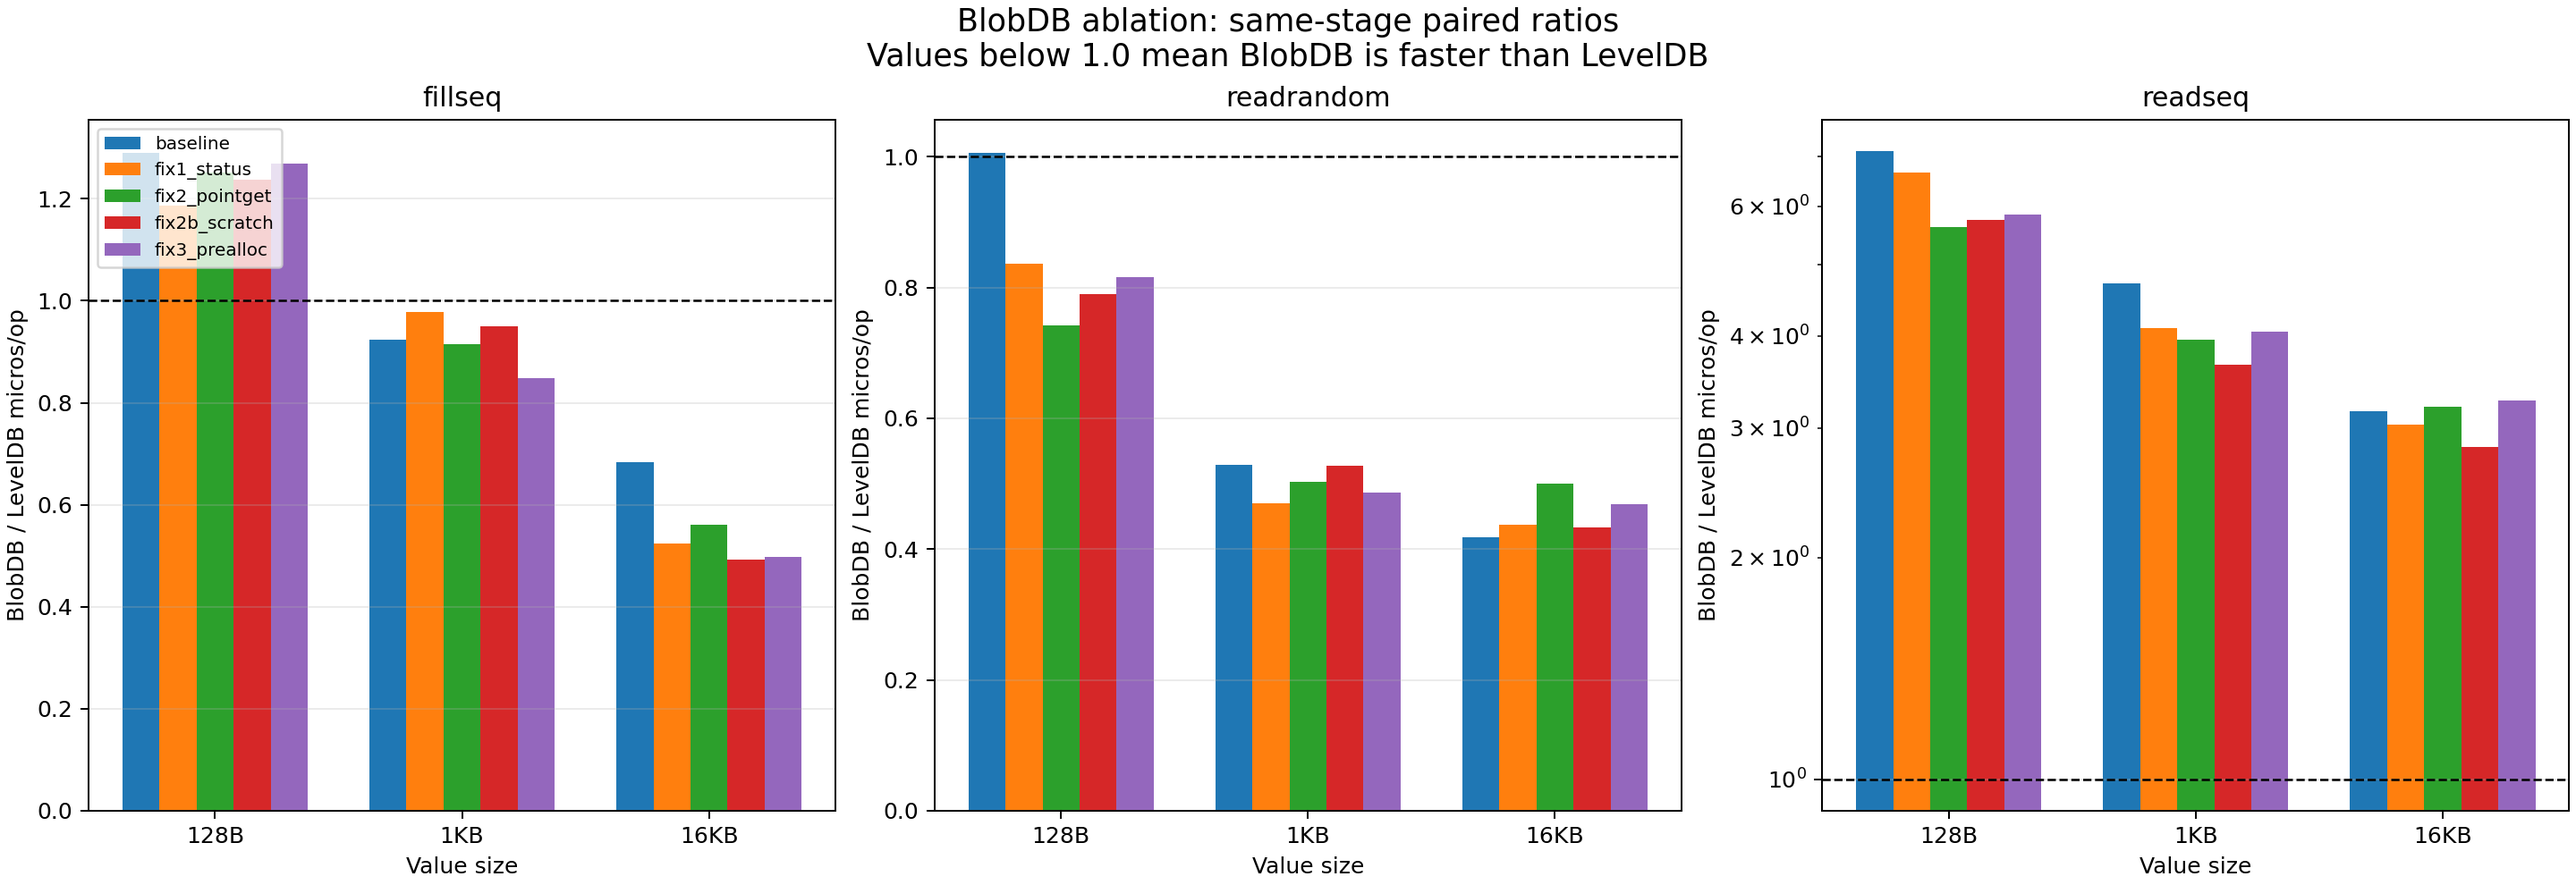
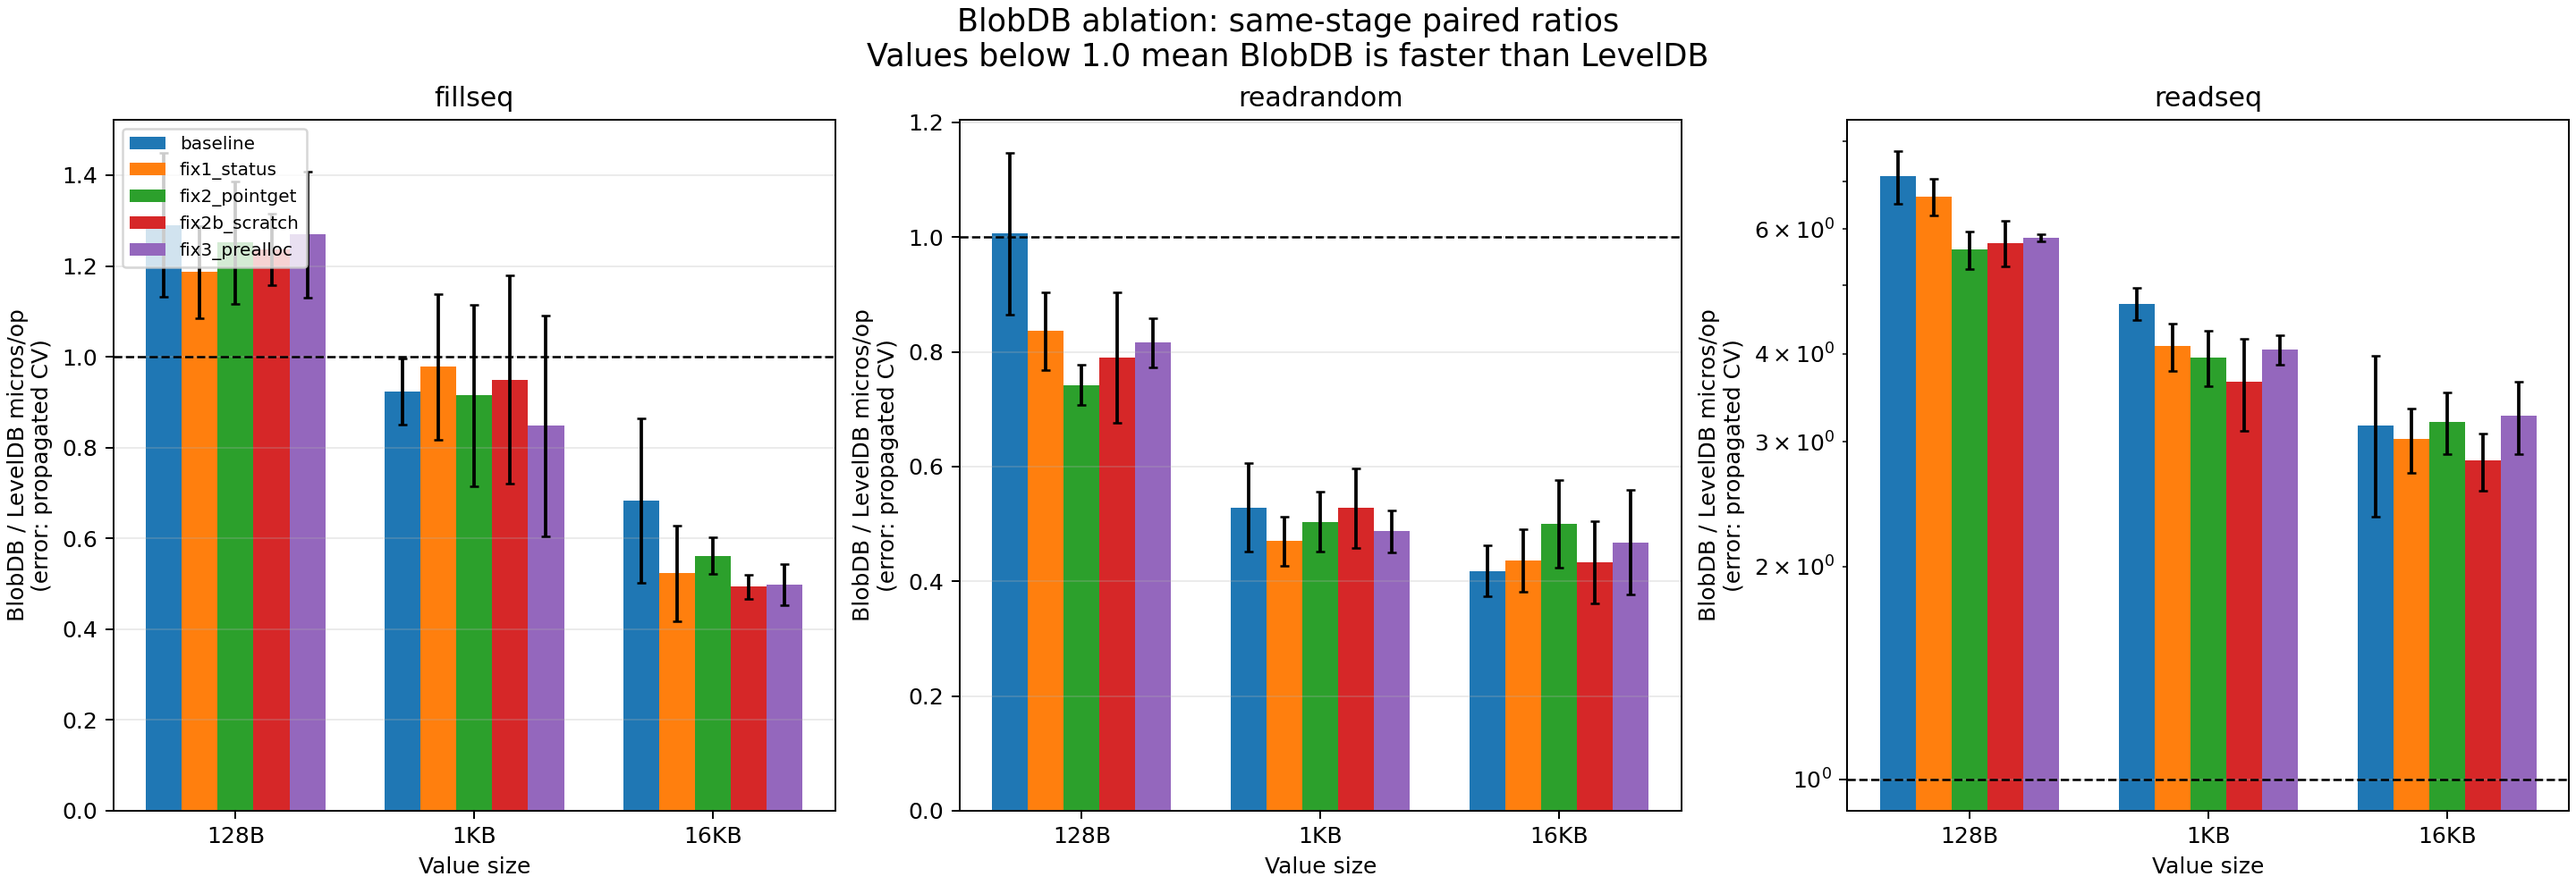
Clarify ablation evidence and uncertainty

diff --git a/doc/blobdb_perf_ablation.md b/doc/blobdb_perf_ablation.md
@@ -29,7 +29,7 @@ The primary metric is the same-stage BlobDB/LevelDB mean `micros/op` ratio. This
 | fillrandom | 30.403 ± 0.963 | 29.836 ± 1.057 | 0.981 |
 | readrandom | 2.692 ± 0.114 | 2.652 ± 0.125 | 0.985 |
 
-The noise logs are in `/home/ubuntu/bench/results/noise_16k/` and the experiment is plotted in `./assets/blobdb_noise_16k.png`. A 1.5% interleaved difference is much smaller than the absolute drift seen between independent stages, so absolute cross-stage values are secondary evidence.
+The interleaved noise logs are retained with the benchmark artifacts and the experiment is plotted in `./assets/blobdb_noise_16k.png`. A 1.5% interleaved difference is much smaller than the absolute drift seen between independent stages, so absolute cross-stage values are secondary evidence.
 
 ## Fixes
 
@@ -57,9 +57,22 @@ The noise logs are in `/home/ubuntu/bench/results/noise_16k/` and the experiment
 - Files: `include/leveldb/env.h`, `util/env_posix.cc`, `db/blob_vlog_impl.cc`, `db/blob_vlog_gc.cc`, `table/vlog.cc`
 - Added an optional preallocation size to the appendable-file API; POSIX vlog files use `ftruncate`, `posix_fallocate`, one full-range mmap, and `MADV_SEQUENTIAL`. The sequential validation parser treats `key_len == 0` as end-of-data so an uncleanly closed preallocated zero tail is truncated during recovery.
 
+## Validation status
+
+The following status was unchanged across baseline, Fix 1, Fix 2, Fix 2b, and Fix 3:
+
+- `DBTest.*`: 58/58 passed.
+- `c_test`: passed.
+- `env_posix_test`: passed.
+- `VLOG_TEST.DBWrapperGC_FailAfterValueRewrite`: failed at baseline and continued to fail with SIGSEGV after each of the four commits. The assertion and failure behavior did not change.
+
+Fix 3's specific recovery validation interrupted a live writer with `kill -9`. The resulting preallocated vlog had a 227MB zero tail; restart completed recovery in `0.092 sec`, and the reopened database returned `1000 of 1000000 found` for random reads. This is evidence that the zero-tail validation guard avoids an unbounded scan after an unclean shutdown.
+
 ## Paired ratio table
 
 BlobDB/LevelDB mean `micros/op`; values below 1.0 mean BlobDB is faster. All rows use the repeat counts present in `./data/blobdb_ablation_summary.csv`.
+
+Figure 1 adds propagated uncertainty bars. For each ratio, the relative standard deviation is estimated as `sqrt(CV_blob^2 + CV_level^2)`, so the displayed error is the ratio multiplied by that relative standard deviation.
 
 | value | stage | fillseq | fillrandom | readrandom#1 | readseq#1 |
 |---:|---|---:|---:|---:|---:|
@@ -115,10 +128,20 @@ BlobDB mean `micros/op` ± sample standard deviation, with CV and repeat count. 
 
 ![Interleaved 16KB noise](./assets/blobdb_noise_16k.png)
 
-## Conclusions supported by these measurements
+## What the data does and does not support
 
-- The 128B BlobDB `fillseq` ratio remains approximately `1.24–1.29x` across the later stages; Fix 3 reports `1.269x`. The fixed overhead from the two-stage vlog/LSM write flow and its extra traversals/copies has not been removed.
-- BlobDB `readseq` remains substantially slower: approximately `3–6x` of LevelDB in the measured configurations. The scan path still performs per-value work; it has not been changed to batch or reorder vlog reads, and prefetch remains one task per value when enabled.
+### Supported by the data
+
+- Fix 2 and Fix 2b support a real reduction in point-get and scan fixed overhead. For 128B, `readrandom#1` moved from a baseline paired ratio of `1.006` to `0.742` in Fix 2, then remained `0.790` in Fix 2b and `0.816` in Fix 3. The BlobDB absolute mean moved from `2.518 us/op` to approximately `2.0 us/op`. Its BlobDB CV tightened from `13.9%` at baseline to `1.0–5.0%` in the later stages. The cross-stage consistency and variance reduction are stronger evidence than any one stage-to-stage difference.
+- The same pattern is present for 128B `readseq#1`: the paired ratio moved from `7.125` to `5.618–5.837`, the absolute BlobDB mean moved from `0.513` to approximately `0.407 us/op`, and the later-stage BlobDB CV was at or below approximately `2.3%` (with Fix 3 at `0.9%`). This supports reduced per-value fixed overhead, while the scan path remains much slower than LevelDB.
+- Fix 1 is justified by correctness: it propagates the status already returned by `GetLocked`. It is not a performance optimization and is not on the hot path in a way that supports attributing the apparent benchmark changes to Fix 1.
+- Fix 3 is justified by removing a structural risk and cost: repeated `ftruncate`/remap growth and delayed extent allocation in the append path, plus the unclean-shutdown zero-tail recovery hazard. Its kill-9 recovery evidence is documented above.
+
+### Not supported, or within noise
+
+- The stage-to-stage differences in `fillseq` and `fillrandom` are not attributable to a specific fix from this data. Their per-stage CVs reach approximately `8–21%`, and the interleaved 16KB experiment shows machine drift larger than the observed Fix 2 readrandom effect in absolute units.
+- In particular, the apparent Fix 1 improvements in the table—128B `readrandom#1` changing from `1.006` to `0.836`, and 16KB `fillseq` changing from `0.683` to `0.523`—must not be attributed to Fix 1. They are machine drift, not evidence of a Fix 1 performance effect.
+- The 1KB `fillseq` change from `0.924` to `0.848` in Fix 3 is not a performance conclusion. Fix 3's performance effect is not separable from the current noise level using these independent stages.
 - GC cost is not represented in this benchmark set because the 600-second GC interval was not reached and no GC workload was forced.
 
 ### Future work
@@ -131,5 +154,4 @@ BlobDB mean `micros/op` ± sample standard deviation, with CV and repeat count. 
 
 - Raw parsed rows: [`./data/blobdb_ablation_raw.csv`](./data/blobdb_ablation_raw.csv)
 - Paired summary: [`./data/blobdb_ablation_summary.csv`](./data/blobdb_ablation_summary.csv)
-- Benchmark driver and original logs remain outside the repository under `/home/ubuntu/bench/`.
-
+- The benchmark driver and original logs remain outside the repository and are not part of this commit.
